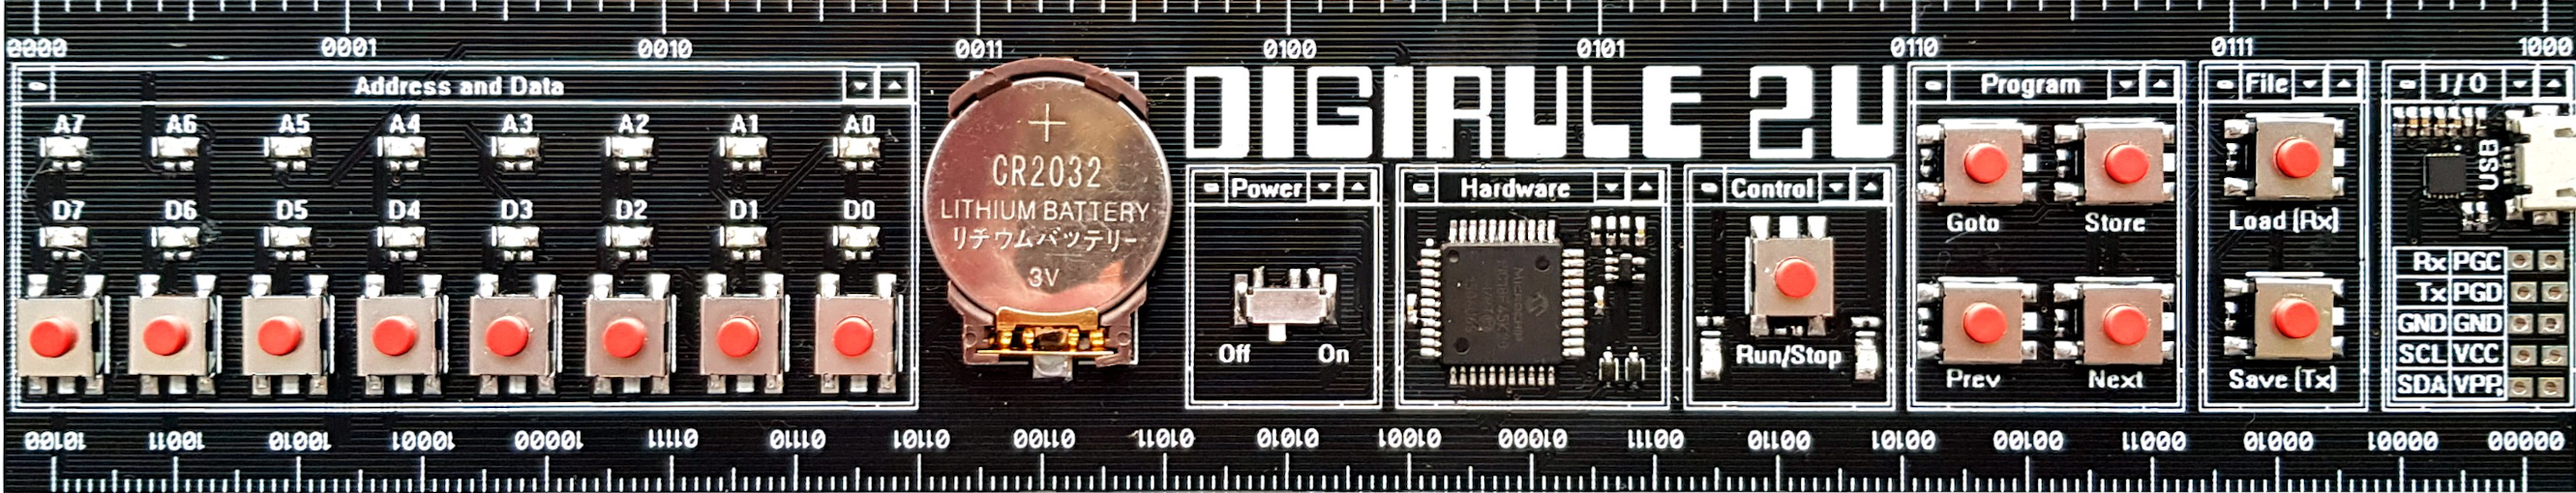
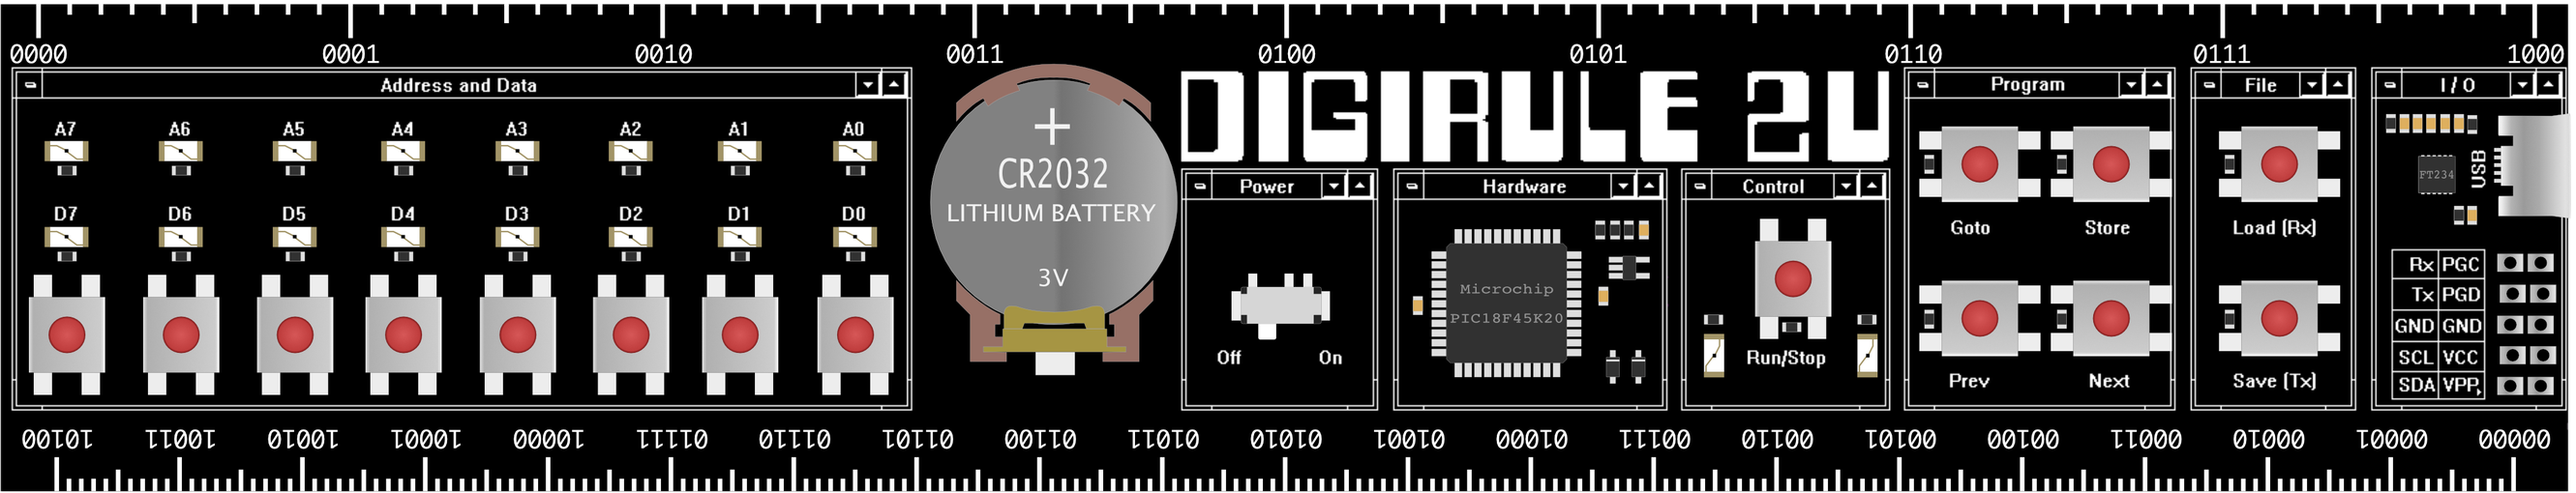
change digirule 2U skin

diff --git a/src/digirules/digirule_description_2U.py b/src/digirules/digirule_description_2U.py
@@ -13,50 +13,51 @@ BUTTONS_WIDTH = 30  # Push buttons width
 # prompt on click, to get the offset.
 OFFSET_SCALE = (1000/399, 500/200)
 
+# Test position with changing transparency line 93 in DigiruleCanvas.py
 # All the positions for buttons
 buttons_positions = {
-    (25, 140): "d_btn7",
-    (71, 140): "d_btn6",
-    (117, 140): "d_btn5",
-    (165, 140): "d_btn4",
-    (212, 139): "d_btn3",
+    (28, 139): "d_btn7",
+    (75, 139): "d_btn6",
+    (122, 139): "d_btn5",
+    (167, 139): "d_btn4",
+    (213, 139): "d_btn3",
     (260, 139): "d_btn2",
-    (306, 139): "d_btn1",
+    (305, 139): "d_btn1",
     (353, 139): "d_btn0",
-    (818, 68): "btn_goto",
-    (876, 68): "btn_store",
-    (876, 135): "btn_next",
-    (818, 135): "btn_prev",
-    (740, 115): "btn_run",
-    (946, 133): "btn_save",
-    (947, 67): "btn_load",
+    (817, 68): "btn_goto",
+    (872, 68): "btn_store",
+    (872, 132): "btn_next",
+    (817, 132): "btn_prev",
+    (739, 115): "btn_run",
+    (940, 132): "btn_save",
+    (940, 68): "btn_load",
 }
 
 # Rectangle-shape buttons and larger buttons
 special_buttons_rectangles = {
     (597, 103, 643, 150): "btn_ram",
     (510, 118, 550, 135): "btn_clear",
-    (395, 40, 470, 120): "btn_power"
+    (395, 40, 473, 123): "btn_power"
 }
 
 # Rows of LEDs
 led_positions = {
     (27, 62): "topLed7",
-    (73, 62): "topLed6",
-    (120, 62): "topLed5",
+    (75, 62): "topLed6",
+    (122, 62): "topLed5",
     (167, 62): "topLed4",
     (213, 62): "topLed3",
     (261, 62): "topLed2",
-    (308, 62): "topLed1",
-    (355, 62): "topLed0",
-    (27, 99): "bottomLed7",
-    (73, 99): "bottomLed6",
-    (120, 99): "bottomLed5",
-    (167, 99): "bottomLed4",
-    (213, 99): "bottomLed3",
-    (261, 99): "bottomLed2",
-    (308, 99): "bottomLed1",
-    (355, 99): "bottomLed0",
-    (771, 148): "stopLed",
-    (707, 148): "runLed"
+    (306, 62): "topLed1",
+    (353, 62): "topLed0",
+    (27, 98): "bottomLed7",
+    (75, 98): "bottomLed6",
+    (122, 98): "bottomLed5",
+    (167, 98): "bottomLed4",
+    (213, 98): "bottomLed3",
+    (261, 98): "bottomLed2",
+    (306, 98): "bottomLed1",
+    (353, 98): "bottomLed0",
+    (772, 147): "stopLed",
+    (708, 147): "runLed"
 }
